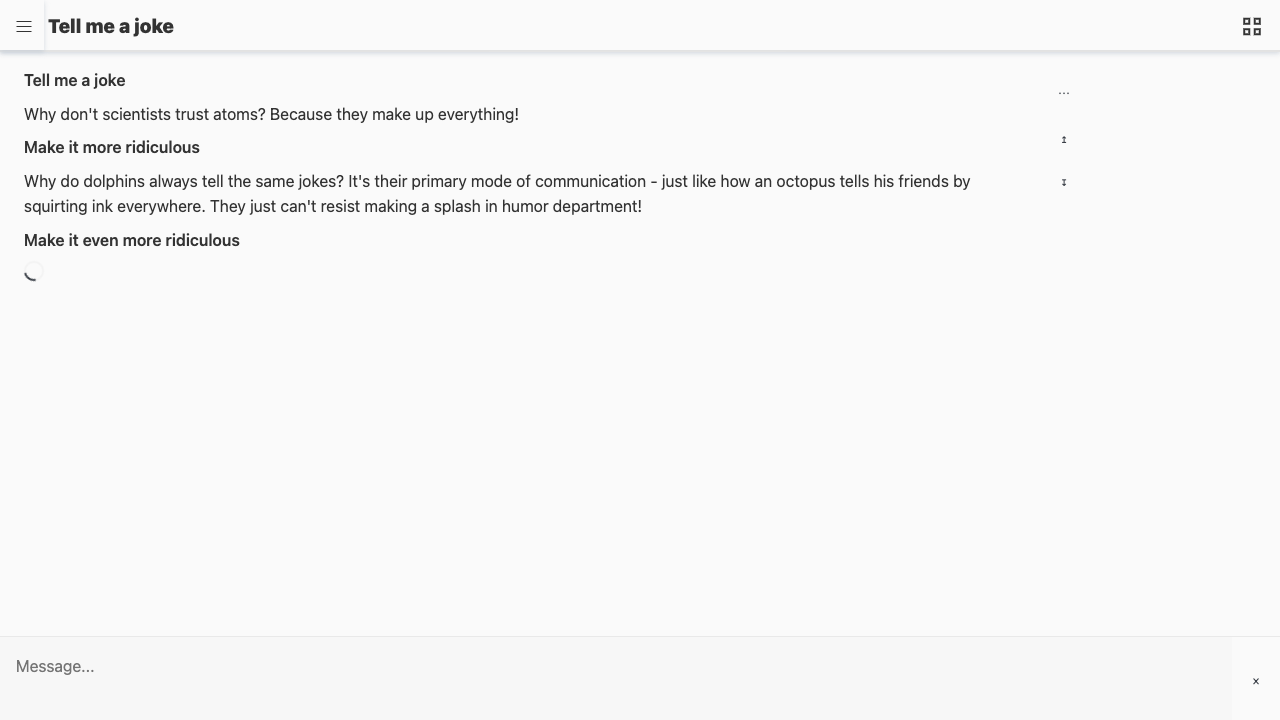
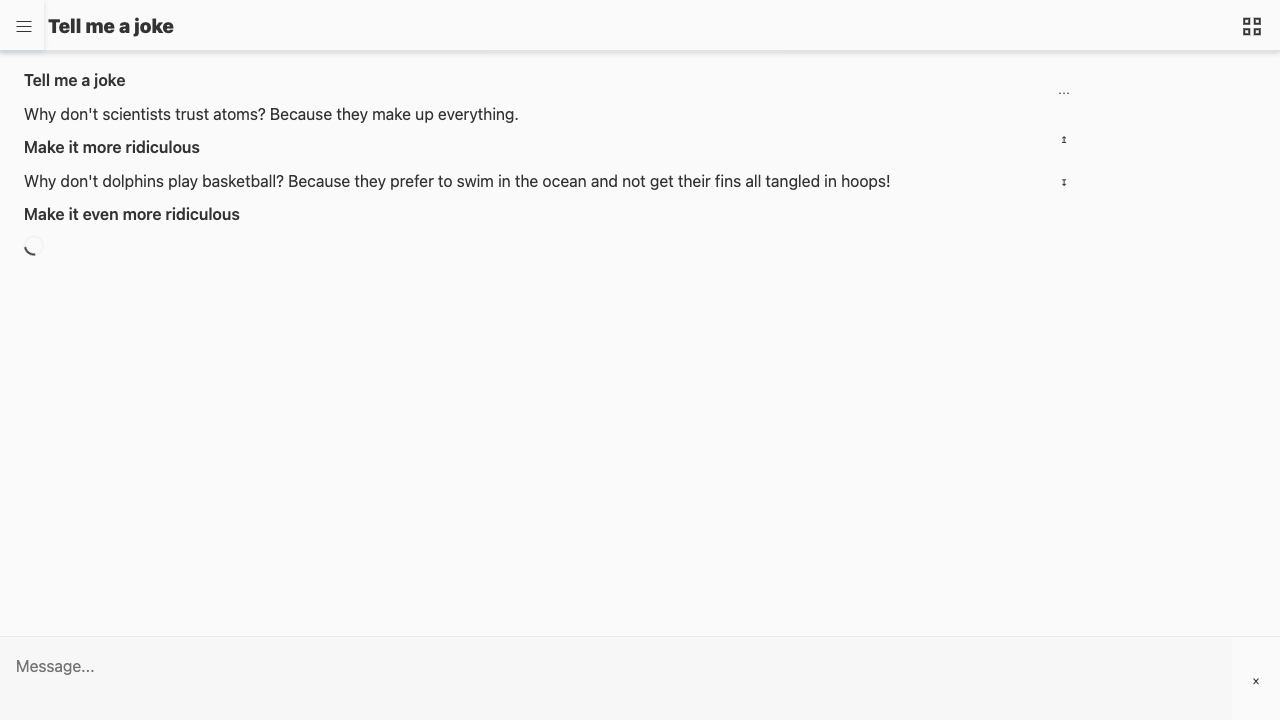
Run linters

Changed region(s): [[0.0, 0.2444, 0.75, 0.3667]]

diff --git a/css/colors.scss b/css/colors.scss
@@ -1,24 +1,24 @@
 // Light theme as default
 :root {
-  --primary-color: #393E46;
+  --primary-color: #393e46;
   --secondary-color: #222831;
-  --secondary-color-lighten-20: #{lighten(#222831, 20%)};
-  --secondary-color-lighten-40: #{lighten(#222831, 40%)};
-  --tertiary-color: #EEE;
-  --error-color: #EF4040;
-  --bg-color: #FAFAFA;
+  --secondary-color-lighten-20: #{color.adjust(#222831, $lightness:20%)};
+  --secondary-color-lighten-40: #{color.adjust(#222831, $lightness:40%)};
+  --tertiary-color: #eee;
+  --error-color: #ef4040;
+  --bg-color: #fafafa;
   --text-color: #333;
-  --text-color-lighten-20: #{lighten(#eee, 20%)};
+  --text-color-lighten-20: #{color.adjust(#eee, $lightness:20%)};
   --icon-color: var(--primary-color);
-  --light-text-color: #FFFFFF;
+  --light-text-color: #fff;
   --button-primary-color: var(--primary-color);
-  --button-primary-bgcolor: #FFFFFF;
+  --button-primary-bgcolor: #fff;
   --button-secondary-color: var(--text-color);
   --button-secondary-bgcolor: $bg-color;
-  --border-color: #{lighten(#393e46, 60%)};
-  --border-hover-color: #{lighten(#393e46, 40%)};
-  --border-focus-color: #{lighten(#393e46, 30%)};
-  --box-shadow-color: rgba(196, 204, 213, 0.7490196078);
+  --border-color: #{color.adjust(#393e46, 60%)};
+  --border-hover-color: #{color.adjust(#393e46, $lightness:40%)};
+  --border-focus-color: #{color.adjust(#393e46, $lightness:30%)};
+  --box-shadow-color: rgb(196 204 213 / 74.9%);
   --box-shadow-modal-color: #444;
   --modal-header-bg-color: var(--primary-color);
 }
@@ -28,23 +28,23 @@
   :root {
     --primary-color: #4f5b66;
     --secondary-color: #1c2025;
-    --secondary-color-lighten-20: #{lighten(#1c2025, 20%)};
-    --secondary-color-lighten-40: #{lighten(#1c2025, 40%)};
+    --secondary-color-lighten-20: #{color.adjust(#1c2025, $lightness:20%)};
+    --secondary-color-lighten-40: #{color.adjust(#1c2025, $lightness:40%)};
     --tertiary-color: #d1d1d1;
     --error-color: #ff6b6b;
     --bg-color: #121212;
-    --text-color: #FAFAFA;
-    --text-color-lighten-20: #{lighten(#FAFAFA, 20%)};
+    --text-color: #fafafa;
+    --text-color-lighten-20: #{color.adjust(#fafafa, $lightness:20%)};
     --icon-color: var(--text-color);
-    --light-text-color: #FFFFFF;
-    --button-primary-color: #ffffff;
+    --light-text-color: #fff;
+    --button-primary-color: #fff;
     --button-primary-bgcolor: var(--primary-color);
     --button-secondary-color: var(--text-color);
     --button-secondary-bgcolor: var(--bg-color);
-    --border-color: #{lighten(#4f5b66, 30%)};
-    --border-hover-color: #{lighten(#4f5b66, 50%)};
-    --border-focus-color: #{lighten(#4f5b66, 60%)};
-    --box-shadow-color: rgba(40, 48, 57, 0.7490196078);
+    --border-color: #{color.adjust(#4f5b66, $lightness:30%)};
+    --border-hover-color: #{color.adjust(#4f5b66, $lightness:50%)};
+    --border-focus-color: #{color.adjust(#4f5b66, $lightness:60%)};
+    --box-shadow-color: rgb(40 48 57 / 74.9%);
     --box-shadow-modal-color: #444;
     --modal-header-bg-color: var(--bg-color);
   }

diff --git a/js/ChatArea.js b/js/ChatArea.js
@@ -59,21 +59,33 @@ export class ChatArea {
       let next, previous;
 
       if (event.key === 'ArrowDown') {
-        next = this.currentMessage ? this.currentMessage.nextElementSibling : this.chatHistory.firstElementChild;
+        next = this.currentMessage
+          ? this.currentMessage.nextElementSibling
+          : this.chatHistory.firstElementChild;
         if (next) {
-          if (this.currentMessage) this.currentMessage.classList.remove('hover');
+          if (this.currentMessage)
+            this.currentMessage.classList.remove('hover');
           next.classList.add('hover');
           this.currentMessage = next; // Update currentMessage
-          this.currentMessage.scrollIntoView({ behavior: 'smooth', block: 'nearest' }); // Scroll into view
+          this.currentMessage.scrollIntoView({
+            behavior: 'smooth',
+            block: 'nearest',
+          }); // Scroll into view
         }
       } else if (event.key === 'ArrowUp') {
-        previous = this.currentMessage ? this.currentMessage.previousElementSibling : this.chatHistory.lastElementChild;
+        previous = this.currentMessage
+          ? this.currentMessage.previousElementSibling
+          : this.chatHistory.lastElementChild;
         if (previous) {
-          if (this.currentMessage) this.currentMessage.classList.remove('hover');
+          if (this.currentMessage)
+            this.currentMessage.classList.remove('hover');
           previous.classList.add('hover');
         }
         this.currentMessage = previous; // Update currentMessage
-        this.currentMessage.scrollIntoView({ behavior: 'smooth', block: 'nearest' }); // Scroll into view
+        this.currentMessage.scrollIntoView({
+          behavior: 'smooth',
+          block: 'nearest',
+        }); // Scroll into view
       }
     });
   }

diff --git a/css/button.scss b/css/button.scss
@@ -1,12 +1,8 @@
 button {
   background-color: var(--button-secondary-bgcolor);
   z-index: 1;
-}
-
-button {
   padding: 0.75rem 1rem;
   border: none;
-  // border-radius: var(--border-radius);
   cursor: pointer;
 
   i {
@@ -18,10 +14,6 @@ button {
 button:hover,
 button.selected {
   @extend %box-shadow-hover;
-  //color: var(--button-primary-color);
-  //background-color: var(--light-color);
-
-  // @extend %box-shadow;
 }
 
 .button-small {
@@ -36,14 +28,6 @@ button.selected {
 .button-primary {
   @extend %font-weight-boldest;
   @extend %box-shadow;
-
-  //color: var(--button-primary-color);
-  //background-color: var(--button-primary-bgcolor);
-}
-
-.button-primary:hover {
-  //color: var(--button-primary-color);
-  //background-color: var(--light-color);
 }
 
 .buttons {

diff --git a/css/Sidebar.scss b/css/Sidebar.scss
@@ -5,16 +5,11 @@ aside {
 /* Sidebar styling */
 #sidebar {
   @extend %box-shadow;
+
   // NOTE: This should be the same as chat-header border-bottom
   border-right: 1px solid #cccccc5e;
-
   min-width: 200px;
   max-width: 480px;
-
-  //flex: 0 0 250px; /* fixed width */
-
-  //background-color: #E3F2FD;
-  //border-right: 1px solid #cfcfcf;
   overflow-y: auto;
 
   .buttons {
@@ -22,9 +17,6 @@ aside {
     display: flex;
     flex-grow: 1;
   }
-
-  // TODO: Animations
-  // transition: display 0.4s;
 }
 
 #search-input {
@@ -34,7 +26,5 @@ aside {
 #sidebar.collapsed {
   max-width: 0;
   display: none;
-
-  //flex: 0 0 0px; /* Collapsed state with zero width */
   padding: 0;
 }

diff --git a/css/form.scss b/css/form.scss
@@ -5,6 +5,11 @@ label {
   display: block;
 }
 
+textarea {
+  padding: 0.5rem;
+  resize: none;
+}
+
 input,
 textarea {
   width: 100%;
@@ -35,9 +40,4 @@ textarea:hover {
 
 .input {
   margin-bottom: 0.5rem;
-}
-
-textarea {
-  padding: 0.5rem;
-  resize: none;
 }

diff --git a/css/spinner.scss b/css/spinner.scss
@@ -30,10 +30,12 @@
     transform: scale(1);
     opacity: 1;
   }
+
   50% {
     transform: scale(1.3);
     opacity: 0.7;
   }
+
   100% {
     transform: scale(0.9);
     opacity: 0.8;
@@ -47,7 +49,7 @@
   border-radius: 50%;
   animation:
     pulse 2s infinite,
-    changeColor 4s infinite;
+    change-color 4s infinite;
 }
 
 @keyframes pulse {
@@ -56,22 +58,26 @@
     transform: scale(1);
     opacity: 1;
   }
+
   50% {
     transform: scale(1.2);
     opacity: 0.7;
   }
 }
 
-@keyframes changeColor {
+@keyframes change-color {
   0% {
     background-color: blue;
   }
+
   33% {
     background-color: red;
   }
+
   67% {
     background-color: green;
   }
+
   100% {
     background-color: blue;
   }

diff --git a/scripts/server.js b/scripts/server.js
@@ -1,10 +1,10 @@
-const http = require('http');
-const fs = require('fs').promises;
-const path = require('path');
+import http from 'http';
+import fs from 'fs/promises';
+import path from 'path';
 
 const hostname = 'localhost';
 const port = 1234;
-const distPath = path.join(__dirname, '../dist');
+const distPath = path.join(process.cwd(), './dist');
 
 const server = http.createServer((req, res) => {
   const uri = req.url === '/' ? '/index.html' : req.url;
@@ -32,7 +32,7 @@ const server = http.createServer((req, res) => {
   };
   const contentType = mimeTypes[extname] || 'application/octet-stream';
   // Validate mime type exists
-  const invalidMimeType = !mimeTypes.hasOwnProperty(extname);
+  const invalidMimeType = !mimeTypes[extname];
   // Validate URL
   // Allows: alphanumeric characters, hyphens, underscores, and exactly one dot in the extension
   const isValidUri = /^\/?[a-zA-Z0-9_-]+(\.[a-zA-Z0-9]+)+$/.test(uri);

diff --git a/css/list.scss b/css/list.scss
@@ -1,6 +1,5 @@
 /* Styling for lists */
 ul {
-  //background: white;
   display: flex;
   flex-direction: column;
   width: 100%;
@@ -12,8 +11,6 @@ ul {
     padding: 0.5rem 0.75rem;
     cursor: pointer;
     width: 100%;
-    // font-weight: 500;
-    //border-bottom: 1px solid #ececec;
     white-space: nowrap; /* Prevent text from wrapping */
 
     .col {
@@ -35,12 +32,9 @@ ul {
 
   li.selected {
     @extend %font-weight-boldest;
+
     // NOTE: Should match #chat-header border-bottom
     border-top: 1px solid #cccccc5e;
-
-    //color: var(--button-primary-color);
-    //background-color: var(--light-color);
-    //@extend %box-shadow;
   }
 
   li.selected::after {

diff --git a/css/ChatHistory.scss b/css/ChatHistory.scss
@@ -22,10 +22,6 @@
     top: 0;
     right: 0;
   }
-
-  .button {
-    //padding: 0.25rem;
-  }
 }
 
 /* Styling for user messages */
@@ -35,8 +31,5 @@
 
 /* Styling for system messages */
 .assistant-chat-message {
-  .chat-message-text {
-    // color: var(--text-color-lighten-20);
-  }
   margin-bottom: 0.5rem;
 }

diff --git a/css/UINotification.scss b/css/UINotification.scss
@@ -3,13 +3,14 @@
   top: 0;
   left: 0;
   color: var(--bg-color);
-  background-color: var(--text-color);
   width: calc(100vw - 2rem);
   z-index: 30000;
   background-color: var(--bg-color);
   padding: 1rem;
   margin: 1rem;
+
   @extend %box-shadow-modal;
+
   border-radius: var(--border-radius);
 
   .button {
@@ -17,9 +18,6 @@
     padding: 0.5rem;
     line-height: 0.5rem;
   }
-}
-
-.notification-message {
 }
 
 .notification-error {

diff --git a/css/ChatHeader.scss b/css/ChatHeader.scss
@@ -1,8 +1,11 @@
 #chat-header {
   // NOTE: Should match #chat-form border-top
-  border-bottom: 1px solid #cccccc;
+  border-bottom: 1px solid #ccc;
+
   @extend %box-shadow;
+
   z-index: 4;
+
   .button {
     height: 100%;
   }

diff --git a/css/ChatList.scss b/css/ChatList.scss
@@ -1,5 +1,6 @@
 .chat-list-item {
   z-index: 2;
+
   .chat-title {
     // text-overflow: ellipsis;
     mask-image: linear-gradient(
@@ -12,11 +13,14 @@
 
 .list-item.selected {
   background: var(--white);
+
   @extend %box-shadow;
+
   z-index: 2;
 }
 
 .list-item.hover {
   @extend %box-shadow-hover;
+
   z-index: 3;
 }